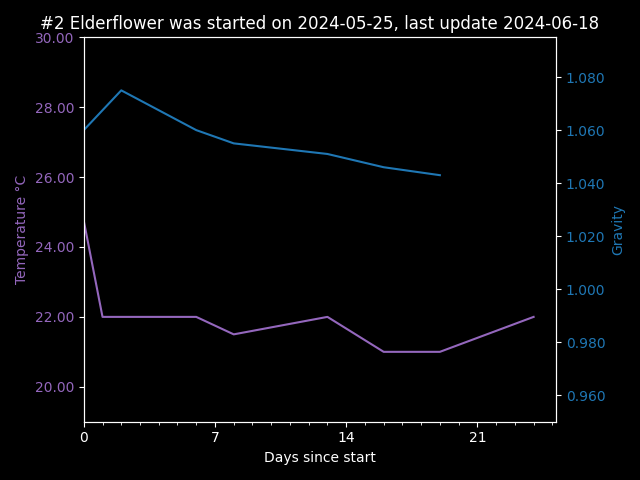
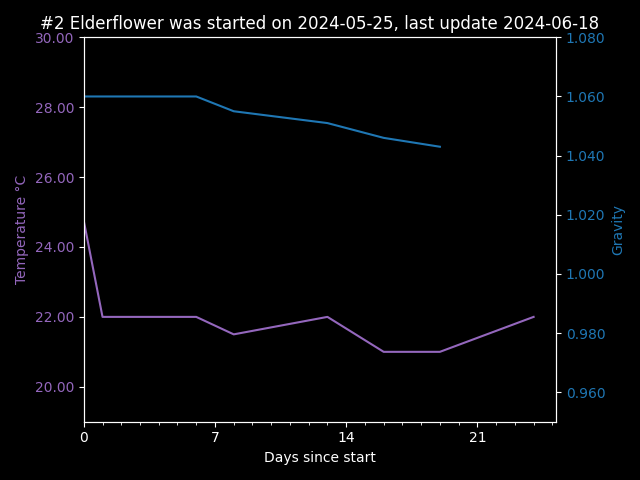
removed un-trusted gravity readings

diff --git a/Recipe List/#1 Standard.md b/Recipe List/#1 Standard.md
@@ -35,24 +35,24 @@ Yeast Food:
 
 <h2>Fermentation Data</h2>
 
-| Date       | Temperature  °C | Gravity | PH  | Notes                                                |
-|------------|-----------------|---------|-----|------------------------------------------------------|
-| 2024-05-25 | 24.75           | 1.060   |     | start time around 5pm                                |
-| 2024-05-26 | 22.00           |         |     | PH 4.5 (I don't trust the test strips), 3 min        |
-| 2024-05-27 | 22.00           | 1.080   |     | not sure about gravity readings currently,           |
-| 2024-05-29 | 22.00           | 1.062   |     | added Fermaid K 1.04g in 20ml water                  |
-| 2024-05-31 | 22.00           | 1.068   |     | Winetheif arrived, measurements taken more precisely |
-| 2024-06-02 | 21.50           | 1.060   |     | Taken with Refractometer                             |
-| 2024-06-05 | 22.00           | 1.056   |     |                                                      |
-| 2024-06-07 | 22.00           | 1.053   |     |                                                      |
-| 2024-06-10 | 21.00           | 1.048   |     |                                                      |
-| 2024-06-13 | 21.00           | 1.045   |     |                                                      |
-| 2024-06-18 | 22.00           |         |     |                                                      |
-| 2024-06-19 | 22.00           | 1.042   | 3.2 |                                                      |
-|            |                 |         |     |                                                      |
-|            |                 |         |     |                                                      |
-|            |                 |         |     |                                                      |
-|            |                 |         |     |                                                      |
+| Date       | Temperature  °C | Gravity | PH  | Notes                                                      |
+|------------|-----------------|---------|-----|------------------------------------------------------------|
+| 2024-05-25 | 24.75           | 1.060   |     | start time around 5pm                                      |
+| 2024-05-26 | 22.00           |         |     | PH 4.5 (I don't trust the test strips), 3 min              |
+| 2024-05-27 | 22.00           |         |     | grav: 1.080 not sure about gravity readings currently,     |
+| 2024-05-29 | 22.00           |         |     | grav: 1.062 added Fermaid K 1.04g in 20ml water            |
+| 2024-05-31 | 22.00           |         |     | 1.068 Winetheif arrived, measurements taken more precisely |
+| 2024-06-02 | 21.50           | 1.060   |     | Taken with Refractometer                                   |
+| 2024-06-05 | 22.00           | 1.056   |     |                                                            |
+| 2024-06-07 | 22.00           | 1.053   |     |                                                            |
+| 2024-06-10 | 21.00           | 1.048   |     |                                                            |
+| 2024-06-13 | 21.00           | 1.045   |     |                                                            |
+| 2024-06-18 | 22.00           |         |     |                                                            |
+| 2024-06-19 | 22.00           | 1.042   | 3.2 |                                                            |
+|            |                 |         |     |                                                            |
+|            |                 |         |     |                                                            |
+|            |                 |         |     |                                                            |
+|            |                 |         |     |                                                            |
 
 ![#1 Standard.png](%231%20Standard.png)
 

diff --git a/Recipe List/#2 Elderflower.md b/Recipe List/#2 Elderflower.md
@@ -42,7 +42,7 @@ Yeast Food:
 |------------|-----------------|---------|------------------------------------------------------|
 | 2024-05-25 | 24.75           | 1.060   | start time around 5pm                                |
 | 2024-05-26 | 22.00           |         | PH 4.5, 3 min                                        |
-| 2024-05-27 | 22.00           | 1.075   | not sure about gravity readings currently,           |
+| 2024-05-27 | 22.00           |         | 1.075 not sure about gravity readings currently,     |
 | 2024-05-31 | 22.00           | 1.060   | Winetheif arrived, measurements taken more precisely |
 | 2024-06-02 | 21.50           | 1.055   | Taken with Refractometer                             |
 | 2024-06-07 | 22.00           | 1.051   | Agitated 2x                                          |
